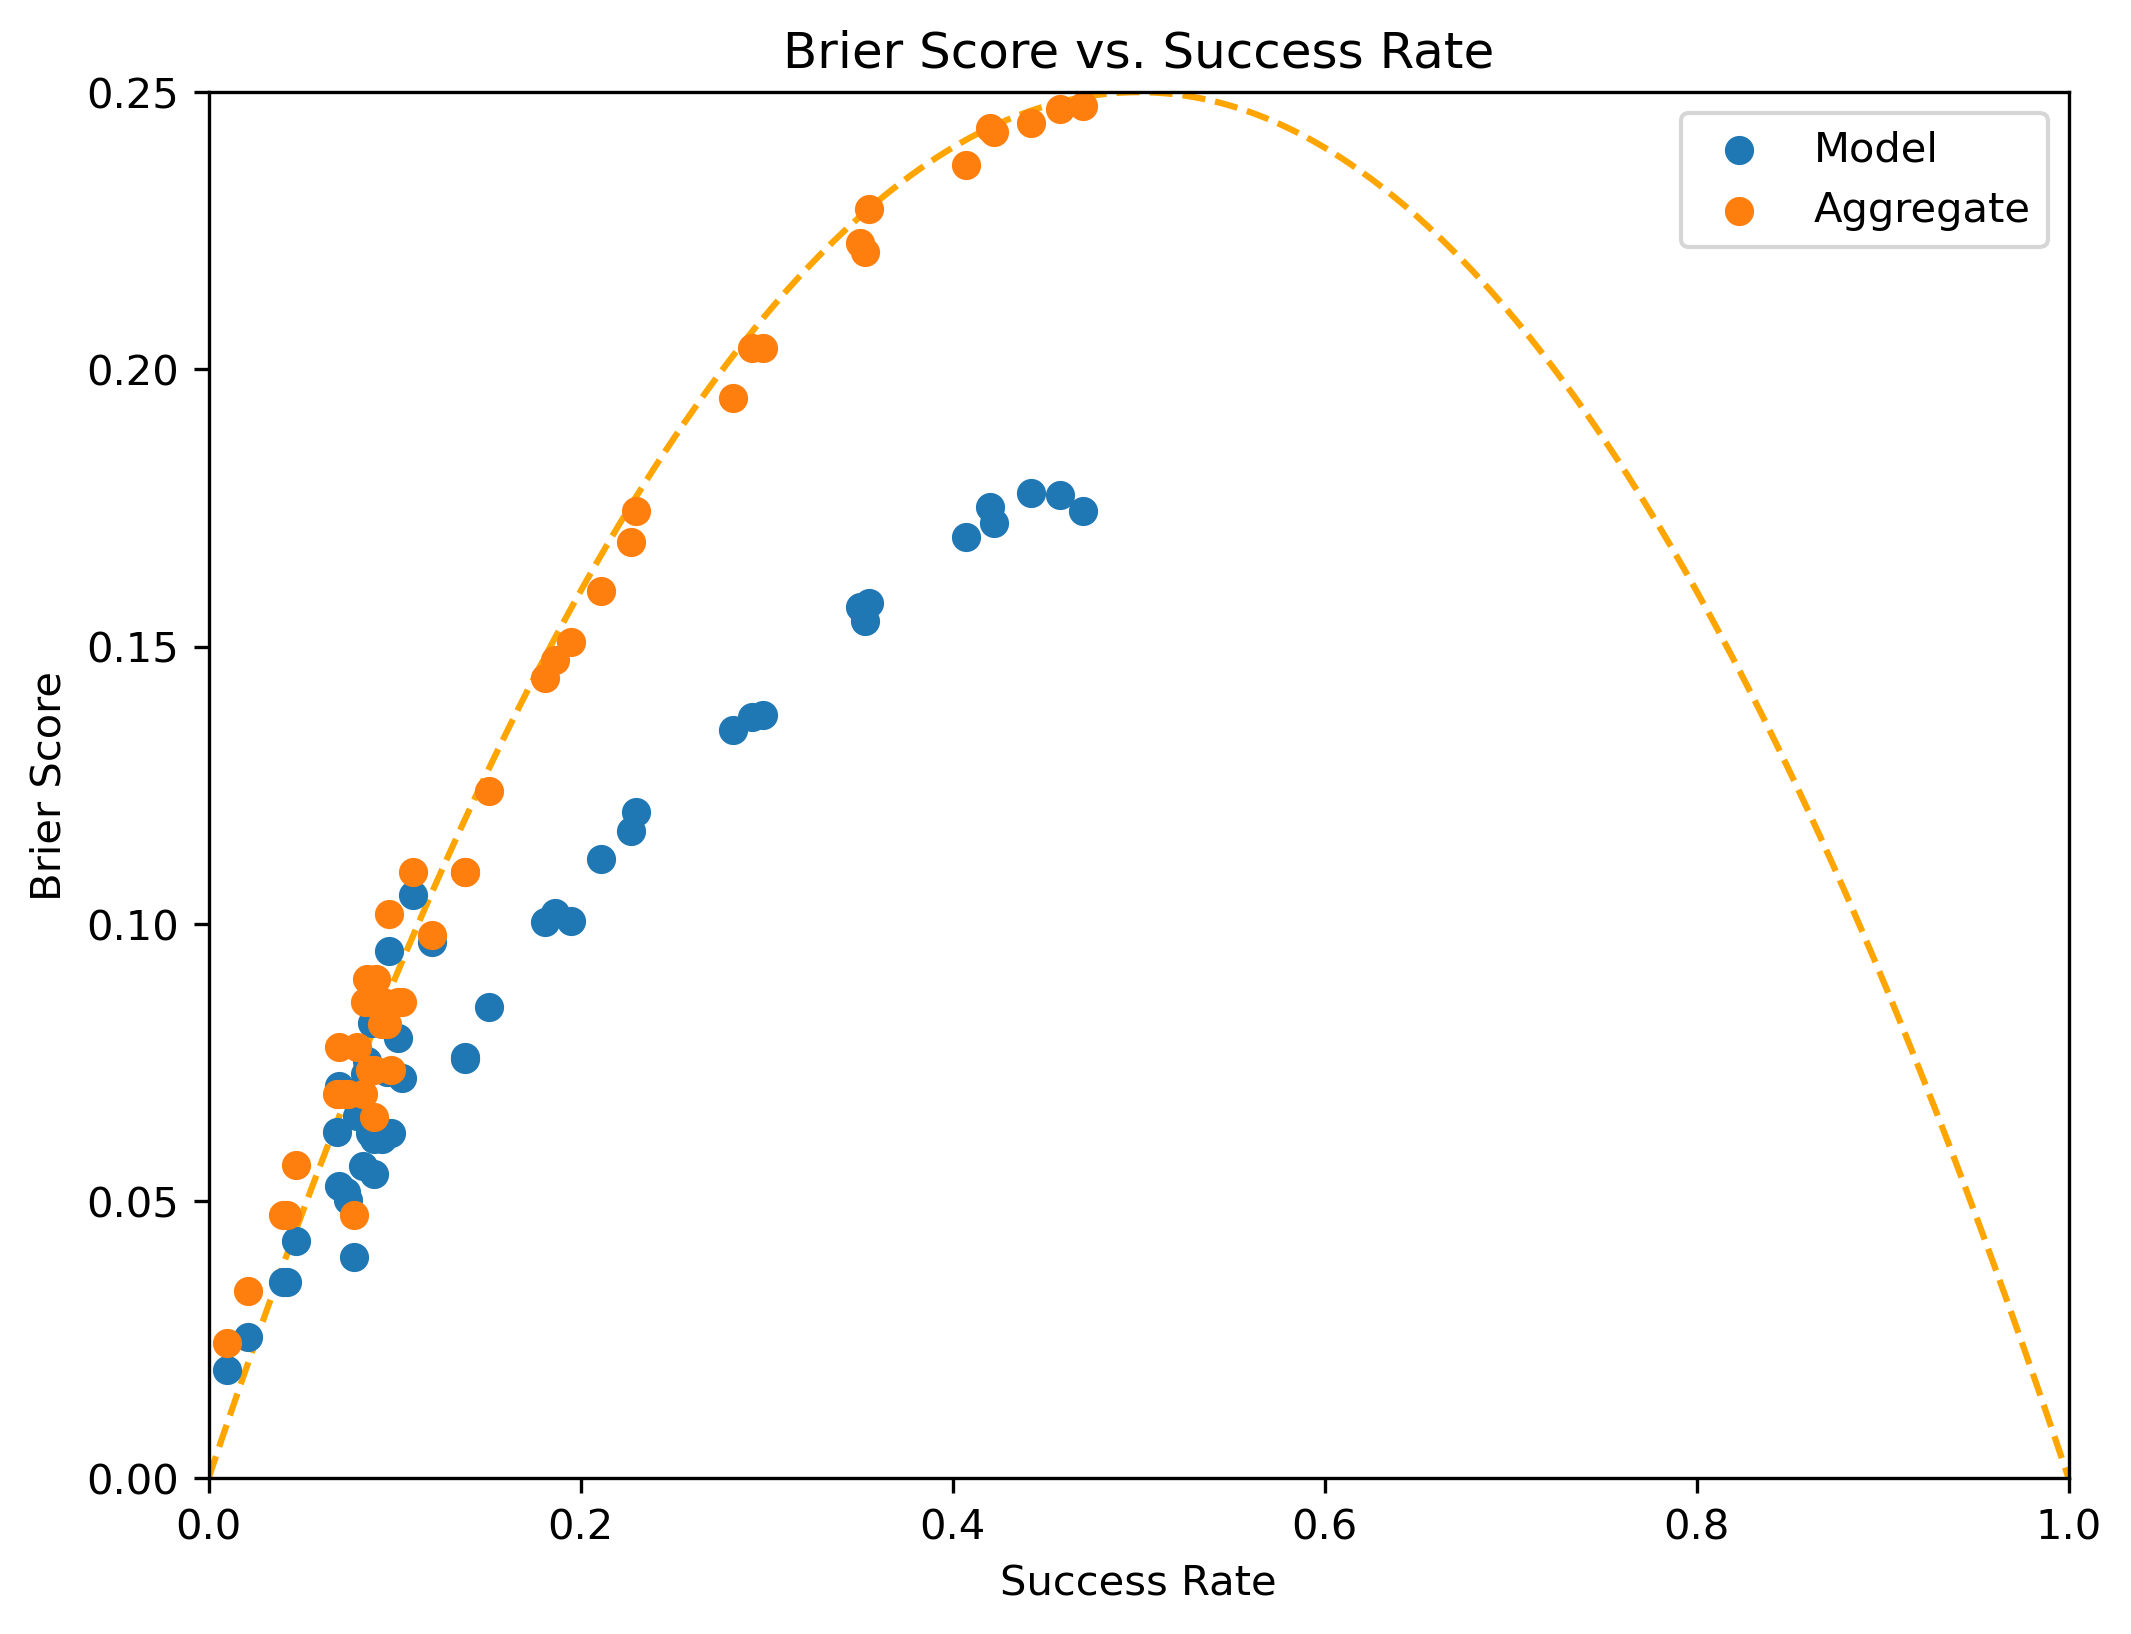
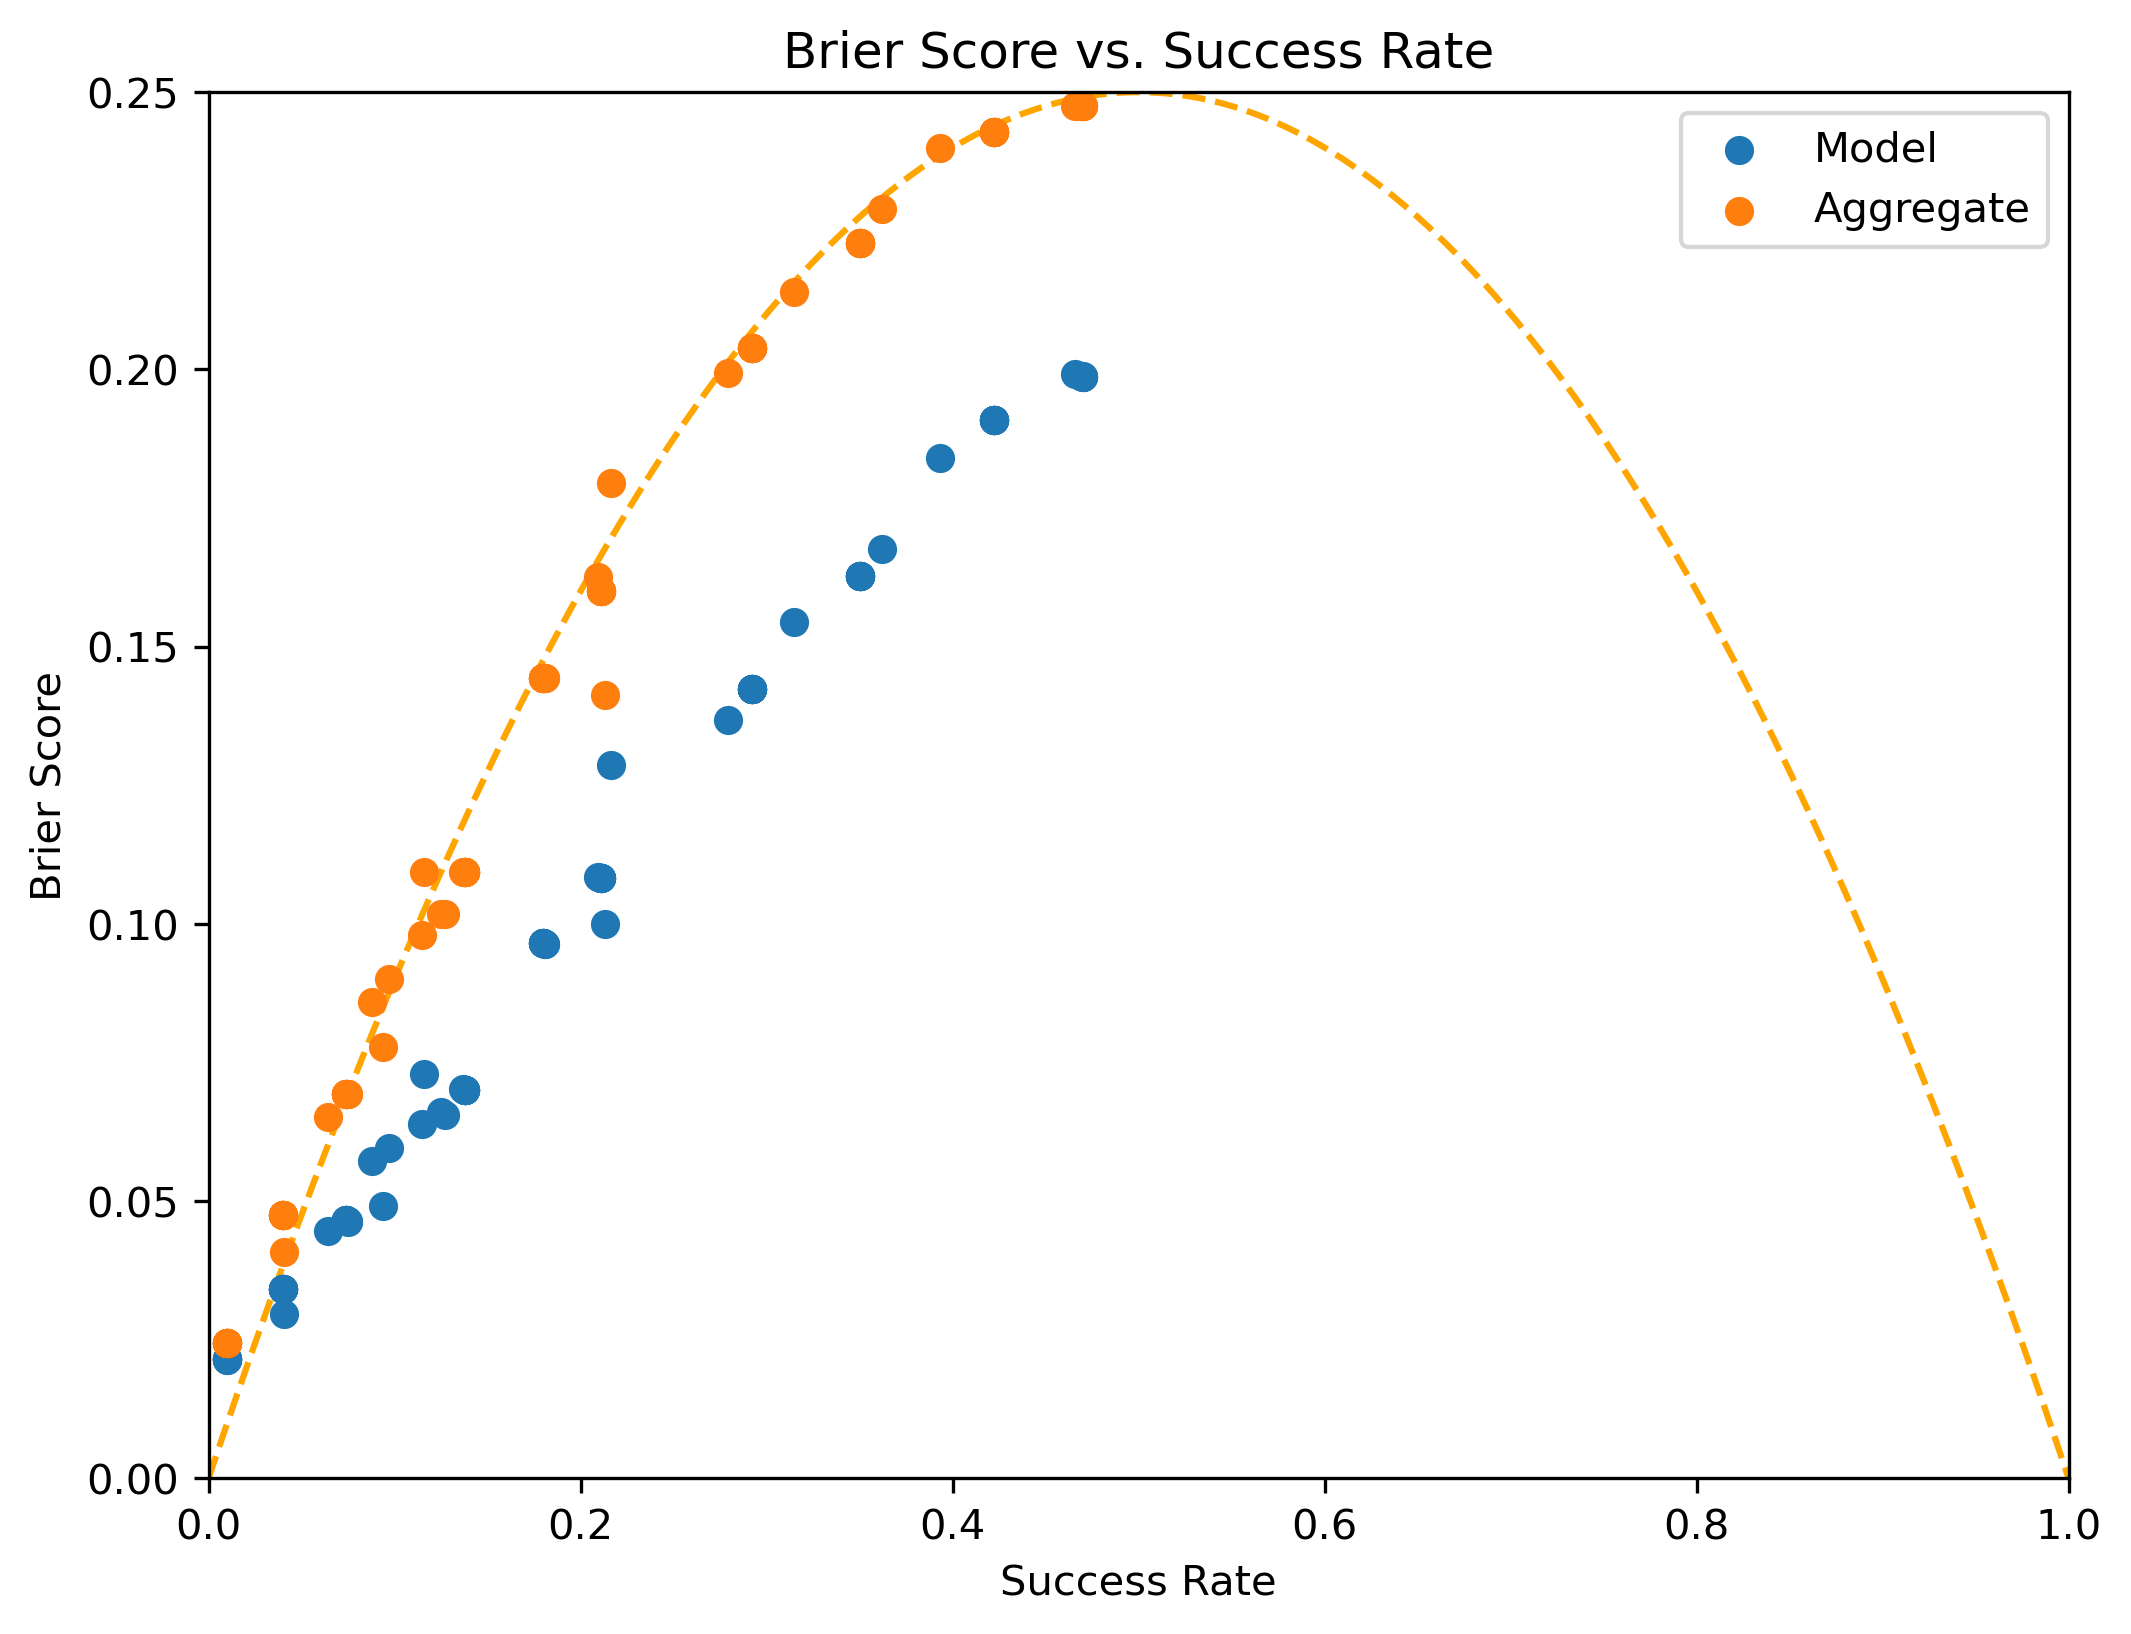
Add new plots and data

diff --git a/basic_measurement_layout/plotting.py b/basic_measurement_layout/plotting.py
@@ -292,7 +292,7 @@ if __name__ == "__main__":
 
     create_brier_score_plot(save_path="figures/vision_agents_brier_score_plot.png")
 
-    create_ability_plot(save_path="figures/vision_agents_ability_plot.png")
+    # create_ability_plot(save_path="figures/vision_agents_ability_plot.png")
     
     # Load and prepare data
     combined_data = load_and_prepare_data(folder_path)
